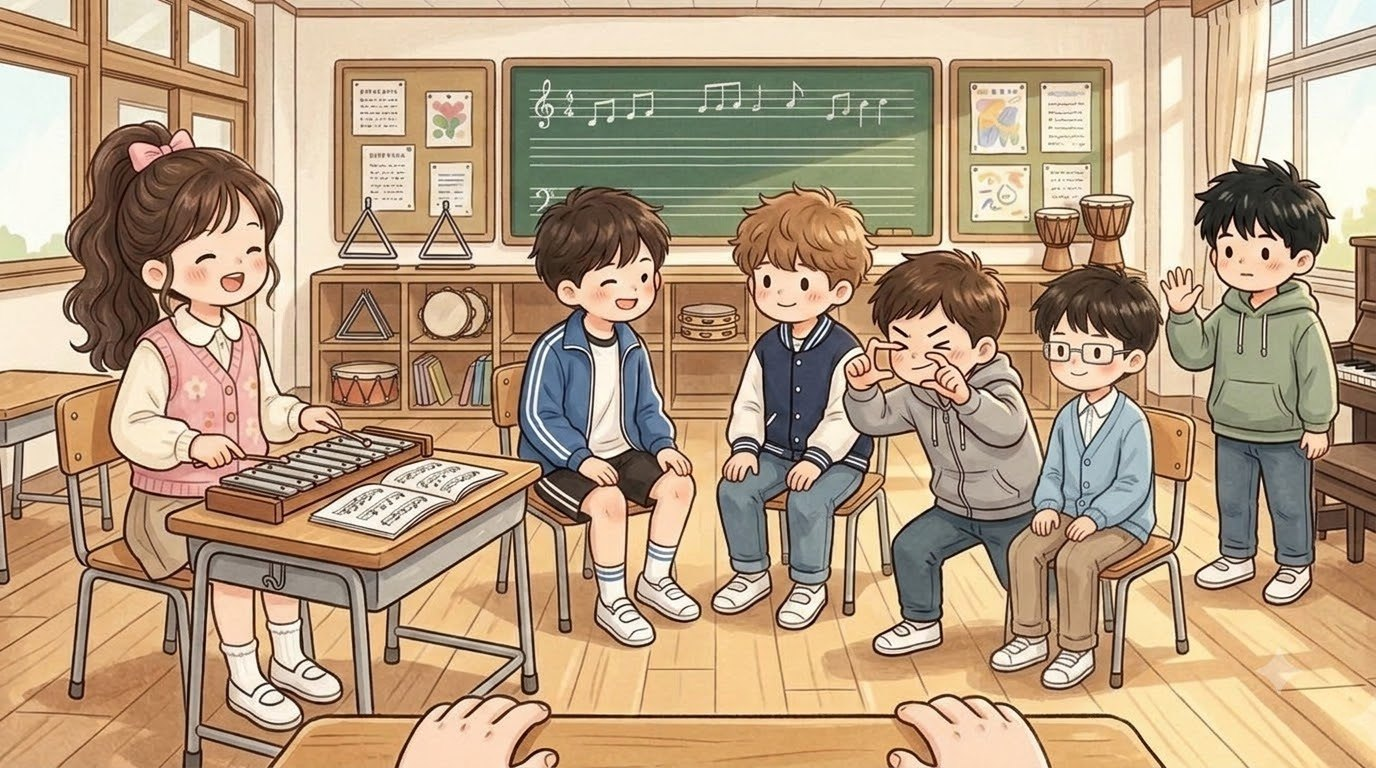
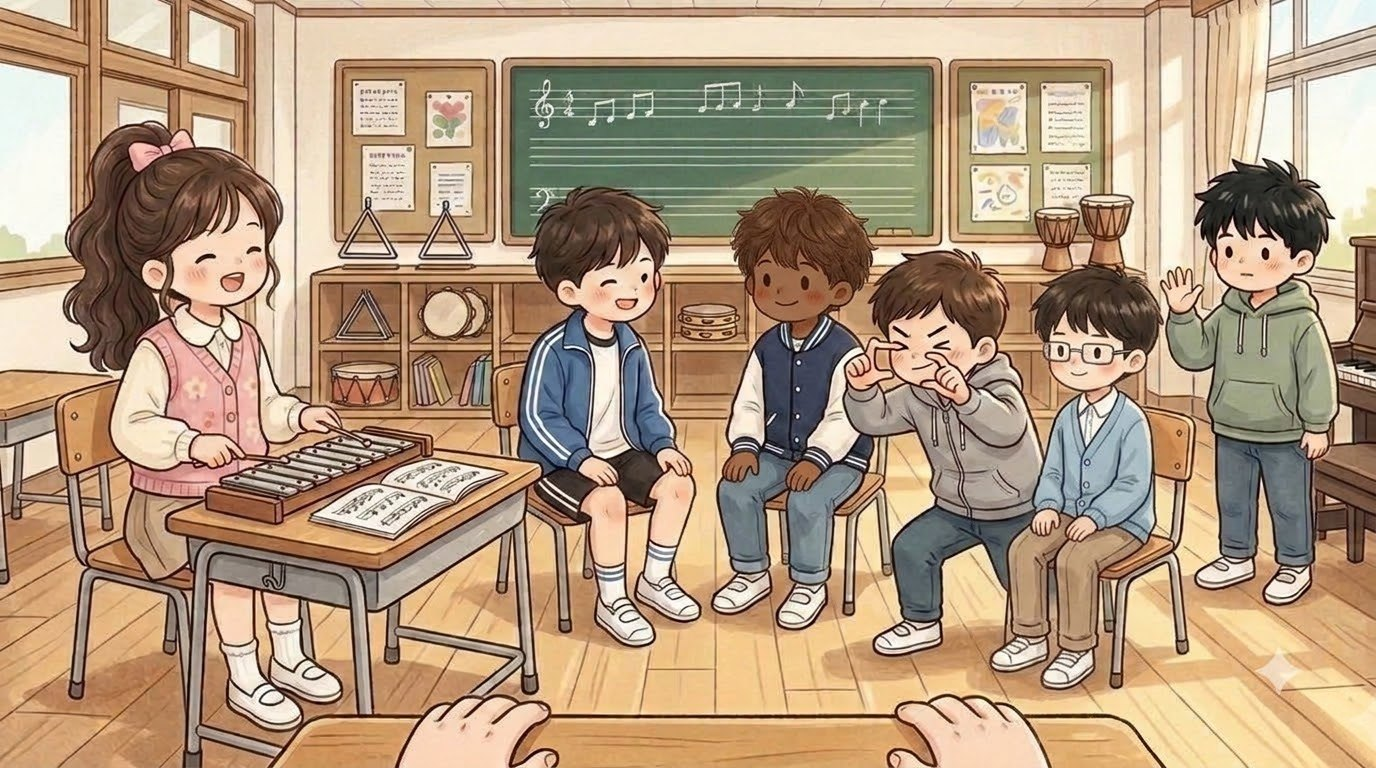
yena_15c: Jiho's dark skin as in his sheet (BUILD 1104120254)

Changed region(s): [[0.5312, 0.2188, 0.6562, 0.4688], [0.5, 0.5625, 0.5938, 0.6562], [0.9062, 0.8438, 0.9375, 0.9062]]

diff --git a/index.html b/index.html
@@ -119,14 +119,14 @@ body,button{word-break:keep-all;overflow-wrap:break-word}
 <div id="fader"></div>
 <script>
 // same address, newest version: if the page this phone has kept is older than the one online, fetch the new one and reopen
-const BUILD='1104115700';
+const BUILD='1104120254';
 try{fetch(location.pathname,{cache:'no-store'}).then(r=>r.text()).then(t=>{const m=t.match(/const BUILD='(\d+)'/);if(m&&m[1]!==BUILD&&sessionStorage.getItem('upd')!==m[1]){sessionStorage.setItem('upd',m[1]);fetch(location.pathname,{cache:'reload'}).then(()=>location.reload())}}).catch(()=>{})}catch(e){}
 </script>
-<script src="i18n.js?v=1104115700"></script>
-<script src="i18n_prologue_v2.js?v=1104115700"></script>
-<script src="day2/i18n_engine.js?v=1104115700"></script>
-<script src="day2/data.js?v=1104115700"></script>
-<script src="day3/data.js?v=1104115700"></script>
+<script src="i18n.js?v=1104120254"></script>
+<script src="i18n_prologue_v2.js?v=1104120254"></script>
+<script src="day2/i18n_engine.js?v=1104120254"></script>
+<script src="day2/data.js?v=1104120254"></script>
+<script src="day3/data.js?v=1104120254"></script>
 <script>
 // ---------- data ----------
 const MW=1672,MH=941,KID=180;
@@ -537,28 +537,28 @@ function pickHero(){const m=document.getElementById('modal'),c=document.getEleme
  c.innerHTML=`<h2>${tr('괴짜교실 반장되기')}</h2><p>${tr('말 한마디 못 하는 전학생,<br>반장 선거에 나가다.')}</p><p style="margin-top:14px">${tr('누구로 할까요?')}</p>${(()=>{const s=loadSave();return s&&s.day>=2&&s.mode===UI+'-'+LANG?`<p><button class="big" id="cont">${tr(s.day+'일차부터 이어 하기')}</button></p>`:''})()}<div class="pick heroes"><button data-h="hero_f"><img src="faces/hero_f_smile.jpg" alt="여자 주인공"></button><button data-h="hero_m"><img src="faces/hero_m_smile.jpg" alt="남자 주인공"></button></div>`;
  m.classList.add('on');{const cb=document.getElementById('cont');if(cb)cb.onclick=()=>{const s=loadSave();HERO=s.hero;Object.assign(HEART,s.heart||{});(s.found||[]).forEach(k=>FOUND.add(k));HEART_D1={...HEART};chime();(typeof contGame==='function'?contGame(s):startDay(Math.min(s.day,Object.keys(window.D3||{}).length?3:2)))}}c.querySelectorAll('.pick button').forEach(b=>b.onclick=()=>{HERO=b.dataset.h;m.classList.remove('on');chime();bgm('day');load('home_am');say([['nar','','이사 온 다음 날 아침. 아직 풀지 못한 상자들이 쌓여 있다.'],['think','sad','(오늘부터 새 학교야. 여기 말도 아직 서툰데…….)'],['think','smile','({m}한테 인사하고 학교 가야지.)']],morning)})}
 </script>
-<script src="day2/engine.js?v=1104115700"></script>
-<script src="day2/ep_minho.js?v=1104115700"></script>
-<script src="day2/meet.js?v=1104115700"></script>
-<script src="day2/ep_sua.js?v=1104115700"></script>
-<script src="day2/ep_hangyeol.js?v=1104115700"></script>
-<script src="day2/ep_siwoo.js?v=1104115700"></script>
-<script src="day2/ep_haram.js?v=1104115700"></script>
-<script src="day2/ep_jiho.js?v=1104115700"></script>
-<script src="day2/ep_hyeeun.js?v=1104115700"></script>
-<script src="day2/ep_haneul.js?v=1104115700"></script>
-<script src="day2/ep_junho.js?v=1104115700"></script>
-<script src="day2/ep_yuna.js?v=1104115700"></script>
-<script src="day2/ep_yena.js?v=1104115700"></script>
-<script src="day2/ep_haeun.js?v=1104115700"></script>
-<script src="day2/ep_youngmin.js?v=1104115700"></script>
-<script src="day2/ep_seah.js?v=1104115700"></script>
-<script src="day2/ep_jihoon.js?v=1104115700"></script>
-<script src="words_ja_ru.js?v=1104115700"></script>
-<script src="day2/mybag.js?v=1104115700"></script>
-<script src="day2/spots.js?v=1104115700"></script>
-<script src="day2/textfit.js?v=1104115700"></script>
-<script src="day2/tester.js?v=1104115700"></script>
+<script src="day2/engine.js?v=1104120254"></script>
+<script src="day2/ep_minho.js?v=1104120254"></script>
+<script src="day2/meet.js?v=1104120254"></script>
+<script src="day2/ep_sua.js?v=1104120254"></script>
+<script src="day2/ep_hangyeol.js?v=1104120254"></script>
+<script src="day2/ep_siwoo.js?v=1104120254"></script>
+<script src="day2/ep_haram.js?v=1104120254"></script>
+<script src="day2/ep_jiho.js?v=1104120254"></script>
+<script src="day2/ep_hyeeun.js?v=1104120254"></script>
+<script src="day2/ep_haneul.js?v=1104120254"></script>
+<script src="day2/ep_junho.js?v=1104120254"></script>
+<script src="day2/ep_yuna.js?v=1104120254"></script>
+<script src="day2/ep_yena.js?v=1104120254"></script>
+<script src="day2/ep_haeun.js?v=1104120254"></script>
+<script src="day2/ep_youngmin.js?v=1104120254"></script>
+<script src="day2/ep_seah.js?v=1104120254"></script>
+<script src="day2/ep_jihoon.js?v=1104120254"></script>
+<script src="words_ja_ru.js?v=1104120254"></script>
+<script src="day2/mybag.js?v=1104120254"></script>
+<script src="day2/spots.js?v=1104120254"></script>
+<script src="day2/textfit.js?v=1104120254"></script>
+<script src="day2/tester.js?v=1104120254"></script>
 <script>
 // the goal shows big for a few seconds, then folds into a small pill (tap it to open it again)
 {const g=document.getElementById('goal');let t=null;const big=()=>{g.classList.remove('mini');clearTimeout(t);t=setTimeout(()=>g.classList.add('mini'),4000)};
